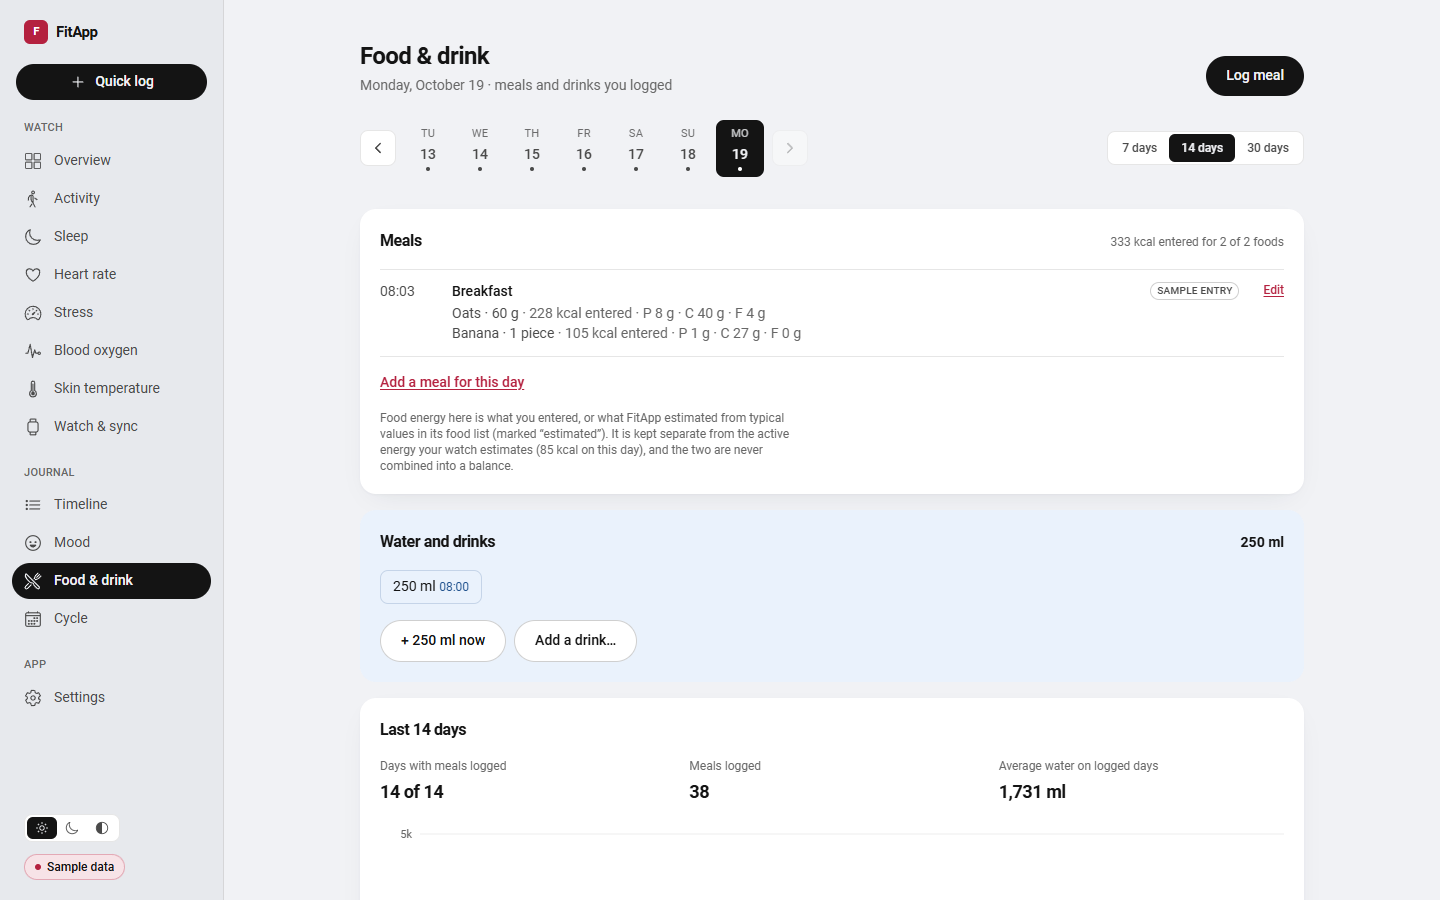
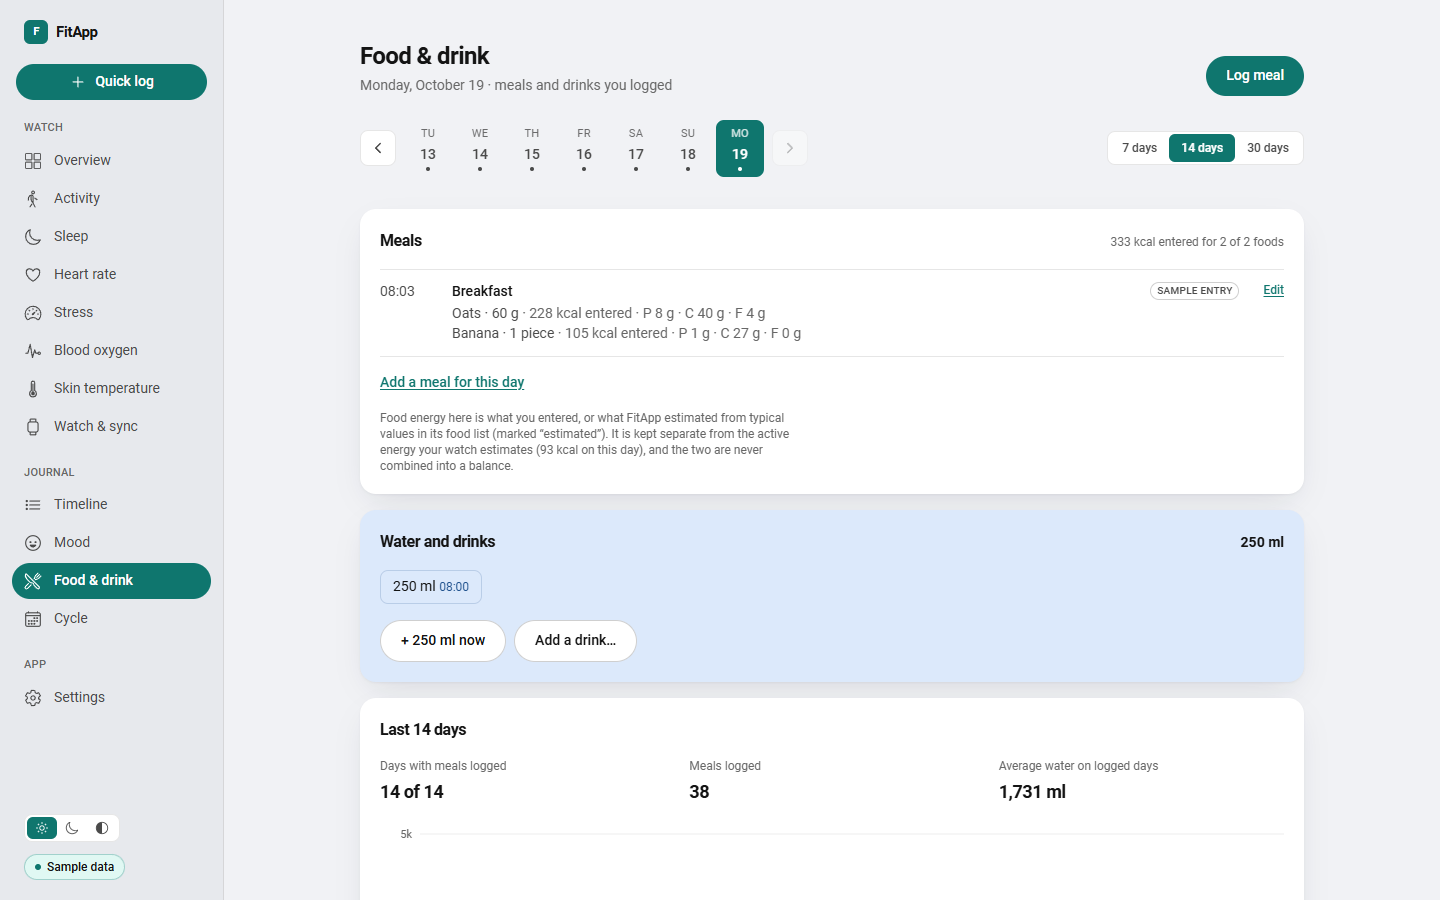
Teal brand colour for the hero and all accents
- The overview hero is solid Tailwind teal 700 (teal 800 in dark mode) with
  white type; every text colour on it is at least 4.5:1.
- Accents (primary buttons, Quick log, active nav item, selected date, range
  and theme segments) use the same teal instead of black.
- Pale tints use Radix teal 3 rather than the saturated mint of teal 100.

diff --git a/frontend-fitapp/src/components/TodayNudge.vue b/frontend-fitapp/src/components/TodayNudge.vue
@@ -4,7 +4,7 @@
       <p class="text-3xl font-semibold tracking-tight sm:text-4xl">{{ greeting }}</p>
       <p class="mt-2 max-w-md text-[15px] leading-relaxed text-ink-2">{{ message }}</p>
       <div class="mt-5 flex flex-wrap items-center gap-2">
-        <span v-if="streak > 1" class="inline-flex items-center gap-2 rounded-full bg-white/10 py-1.5 pr-3.5 pl-1.5 text-sm font-medium">
+        <span v-if="streak > 1" class="inline-flex items-center gap-2 rounded-full bg-[var(--chip)] py-1.5 pr-3.5 pl-1.5 text-sm font-medium">
           <span class="grid size-7 place-items-center rounded-full bg-[#ffb33d] text-[#3a2300]">
             <ion-icon :icon="flame" aria-hidden="true" class="text-base" />
           </span>
@@ -17,7 +17,7 @@
     <div class="flex items-center gap-5">
       <svg viewBox="0 0 140 140" class="size-32 shrink-0 -rotate-90 sm:size-36" role="img" :aria-label="ringsLabel">
         <g v-for="(r, i) in rings" :key="r.label" fill="none" stroke-width="12" stroke-linecap="round">
-          <circle cx="70" cy="70" :r="RADII[i]" stroke="rgb(255 255 255 / 0.18)" />
+          <circle cx="70" cy="70" :r="RADII[i]" stroke="var(--track)" />
           <circle
             v-if="r.ratio !== null"
             cx="70"
@@ -76,16 +76,16 @@ const loggedToday = computed(() => {
   return d.mood.length + d.meals.length + d.hydration.length + (d.cycleDay ? 1 : 0) > 0
 })
 
-// Light tints of each metric's hue (Tailwind 200-300), readable on the indigo hero.
+// Light tints of each metric's hue (Tailwind 200-300); they read on the teal hero.
 const rings = computed(() => {
   const g = fitness.goals
   const a = props.day?.activity
   return [
-    { label: 'Steps', icon: ICONS.steps, color: '#7dd3fc', ratio: progress(a?.steps, g.steps), valueText: formatInt(a?.steps), goalText: formatInt(g.steps) },
+    { label: 'Steps', icon: ICONS.steps, color: 'var(--ring-1)', ratio: progress(a?.steps, g.steps), valueText: formatInt(a?.steps), goalText: formatInt(g.steps) },
     {
       label: 'Active energy',
       icon: ICONS.activeEnergy,
-      color: '#fcd34d',
+      color: 'var(--ring-2)',
       ratio: progress(a?.activeKcal, g.activeKcal),
       valueText: a?.activeKcal == null ? EMPTY : `${formatInt(a.activeKcal)} kcal`,
       goalText: `${formatInt(g.activeKcal)} kcal`,
@@ -93,7 +93,7 @@ const rings = computed(() => {
     {
       label: 'Sleep',
       icon: ICONS.sleep,
-      color: '#e9d5ff',
+      color: 'var(--ring-3)',
       ratio: progress(props.day?.sleep?.durationMin, g.sleepMin),
       valueText: formatDuration(props.day?.sleep?.durationMin),
       goalText: formatDuration(g.sleepMin),
@@ -120,14 +120,25 @@ const message = computed(() => {
 </script>
 
 <style scoped>
-/* A solid brand panel: light ink, and white pills for actions. */
+/*
+ * A solid teal section (the brand colour at full strength) takes white type, following the Radix
+ * Colors guidance for solid steps. Secondary text uses solid near-white tints (at least 4.5:1).
+ */
 .hero {
   background: var(--hero);
-  color: #ffffff;
+  color: var(--ink);
   --ink: #ffffff;
-  --ink-2: #e0e7ff;
-  --muted: #c7d2fe;
+  --ink-2: #e3f4f1;
+  --muted: #c9e8e3;
   --page: var(--hero);
+  --chip: rgb(255 255 255 / 0.14);
+  --track: rgb(255 255 255 / 0.2);
+  --ring-1: #7dd3fc;
+  --ring-2: #fcd34d;
+  --ring-3: #ddd6fe;
+  /* Actions on the hero invert: white pill, teal text. */
+  --accent: #ffffff;
+  --accent-ink: var(--hero);
   --focus: #ffffff;
   box-shadow: var(--card-shadow);
 }

diff --git a/frontend-fitapp/src/styles/tailwind.css b/frontend-fitapp/src/styles/tailwind.css
@@ -23,14 +23,14 @@
   --muted: #676767;
   --line: #e6e6e6;
   --line-strong: #cfcfcf;
-  --accent: #4f46e5;
+  --accent: #0f766e;
   --accent-ink: #ffffff;
-  --accent-soft: #e0e7ff;
+  --accent-soft: #e0f8f3;
   --danger: #b42318;
   --danger-soft: #fdecea;
-  --focus: #4f46e5;
-  /* The overview hero: a solid brand panel (indigo 800 / 900), deep enough not to glare. */
-  --hero: #3730a3;
+  --focus: #0f766e;
+  /* The overview hero: solid teal with white type (Tailwind teal 700; teal 800 in dark mode). */
+  --hero: #0f766e;
 
   --activity: #2a78d6;
   --heart: #eb6834;
@@ -82,13 +82,13 @@
     --muted: #9c9a91;
     --line: #2c2c2a;
     --line-strong: #43423e;
-    --accent: #a5b4fc;
-    --accent-ink: #1e1b4b;
-    --accent-soft: #24224f;
+    --accent: #0d9488;
+    --accent-ink: #021a19;
+    --accent-soft: #0f2e2b;
     --danger: #f97066;
     --danger-soft: #3b1714;
-    --focus: #a5b4fc;
-    --hero: #312e81;
+    --focus: #0d9488;
+    --hero: #115e59;
 
     --activity: #3987e5;
     --heart: #d95926;

diff --git a/frontend-fitapp/src/components/AppShell.vue b/frontend-fitapp/src/components/AppShell.vue
@@ -9,7 +9,7 @@
           </RouterLink>
           <button
             type="button"
-            class="mx-1 mb-5 flex items-center justify-center gap-2 rounded-full bg-ink px-3 py-2 text-sm font-medium text-page transition-[opacity,scale] duration-150 hover:opacity-90 active:scale-[0.97]"
+            class="mx-1 mb-5 flex items-center justify-center gap-2 rounded-full bg-accent px-3 py-2 text-sm font-medium text-accent-ink transition-[opacity,scale] duration-150 hover:opacity-90 active:scale-[0.97]"
             @click="ui.openQuickLog()"
           >
             <ion-icon :icon="addOutline" aria-hidden="true" class="text-lg" />Quick log

diff --git a/frontend-fitapp/src/components/NavButton.vue b/frontend-fitapp/src/components/NavButton.vue
@@ -20,7 +20,7 @@ const active = computed(() => route.path === props.to)
 
 const railClass = computed(() => [
   'flex items-center gap-3 rounded-full px-3 py-2 text-sm transition-colors duration-150',
-  active.value ? 'bg-ink text-page font-medium' : 'text-ink-2 hover:bg-surface hover:text-ink',
+  active.value ? 'bg-accent text-accent-ink font-medium' : 'text-ink-2 hover:bg-surface hover:text-ink',
 ])
 const barClass = computed(() => [
   'relative flex flex-1 flex-col items-center justify-center gap-1 py-2 transition-colors duration-150',

diff --git a/frontend-fitapp/src/components/PrimaryButton.vue b/frontend-fitapp/src/components/PrimaryButton.vue
@@ -6,7 +6,7 @@
     class="inline-flex items-center justify-center rounded-full px-5 py-2.5 text-sm font-medium transition-[color,background-color,border-color,transform,opacity] duration-150 ease-out active:enabled:scale-[0.97] disabled:cursor-not-allowed disabled:opacity-50"
     :class="
       variant === 'primary'
-        ? 'bg-ink text-page hover:enabled:opacity-90'
+        ? 'bg-accent text-accent-ink hover:enabled:opacity-90'
         : 'border border-line-strong bg-surface text-ink hover:enabled:border-ink-2'
     "
   >

diff --git a/frontend-fitapp/src/components/ThemeToggle.vue b/frontend-fitapp/src/components/ThemeToggle.vue
@@ -11,7 +11,7 @@
       :title="opt.label"
       :tabindex="choice === opt.value ? 0 : -1"
       class="flex items-center gap-1.5 rounded-md px-2 py-1 text-xs font-medium transition-colors duration-150"
-      :class="choice === opt.value ? 'bg-ink text-page' : 'text-ink-2 hover:text-ink'"
+      :class="choice === opt.value ? 'bg-accent text-accent-ink' : 'text-ink-2 hover:text-ink'"
       @click="choice = opt.value"
     >
       <ion-icon :icon="opt.icon" aria-hidden="true" class="text-sm" />

diff --git a/frontend-fitapp/src/views/ActivityPage.vue b/frontend-fitapp/src/views/ActivityPage.vue
@@ -38,7 +38,7 @@
                 role="radio"
                 :aria-checked="m.key === metricKey"
                 class="rounded-md px-2.5 py-1 text-xs font-medium transition-colors duration-150"
-                :class="m.key === metricKey ? 'bg-ink text-page' : 'text-ink-2 hover:text-ink'"
+                :class="m.key === metricKey ? 'bg-accent text-accent-ink' : 'text-ink-2 hover:text-ink'"
                 @click="metricKey = m.key"
               >
                 {{ m.short }}

diff --git a/frontend-fitapp/src/components/CalendarComp.vue b/frontend-fitapp/src/components/CalendarComp.vue
@@ -17,7 +17,7 @@
         class="flex min-w-0 flex-col items-center gap-0.5 rounded-lg py-1.5 text-center transition-colors duration-150 disabled:cursor-not-allowed disabled:opacity-35"
         :class="
           day.date === modelValue
-            ? 'bg-ink text-page'
+            ? 'bg-accent text-accent-ink'
             : 'text-ink-2 hover:enabled:bg-surface hover:enabled:text-ink'
         "
         @click="emit('update:modelValue', day.date)"

diff --git a/frontend-fitapp/src/components/RangeTabs.vue b/frontend-fitapp/src/components/RangeTabs.vue
@@ -9,7 +9,7 @@
       :aria-checked="opt === modelValue"
       :tabindex="opt === modelValue ? 0 : -1"
       class="rounded-md px-3 py-1.5 text-xs font-medium transition-colors duration-150"
-      :class="opt === modelValue ? 'bg-ink text-page' : 'text-ink-2 hover:text-ink'"
+      :class="opt === modelValue ? 'bg-accent text-accent-ink' : 'text-ink-2 hover:text-ink'"
       @click="emit('update:modelValue', opt)"
     >
       {{ opt }} days

diff --git a/frontend-fitapp/src/views/TimelinePage.vue b/frontend-fitapp/src/views/TimelinePage.vue
@@ -10,7 +10,7 @@
           role="radio"
           :aria-checked="filter === f.value"
           class="rounded-md px-3 py-1.5 text-xs font-medium transition-colors duration-150"
-          :class="filter === f.value ? 'bg-ink text-page' : 'text-ink-2 hover:text-ink'"
+          :class="filter === f.value ? 'bg-accent text-accent-ink' : 'text-ink-2 hover:text-ink'"
           @click="filter = f.value"
         >
           {{ f.label }}
